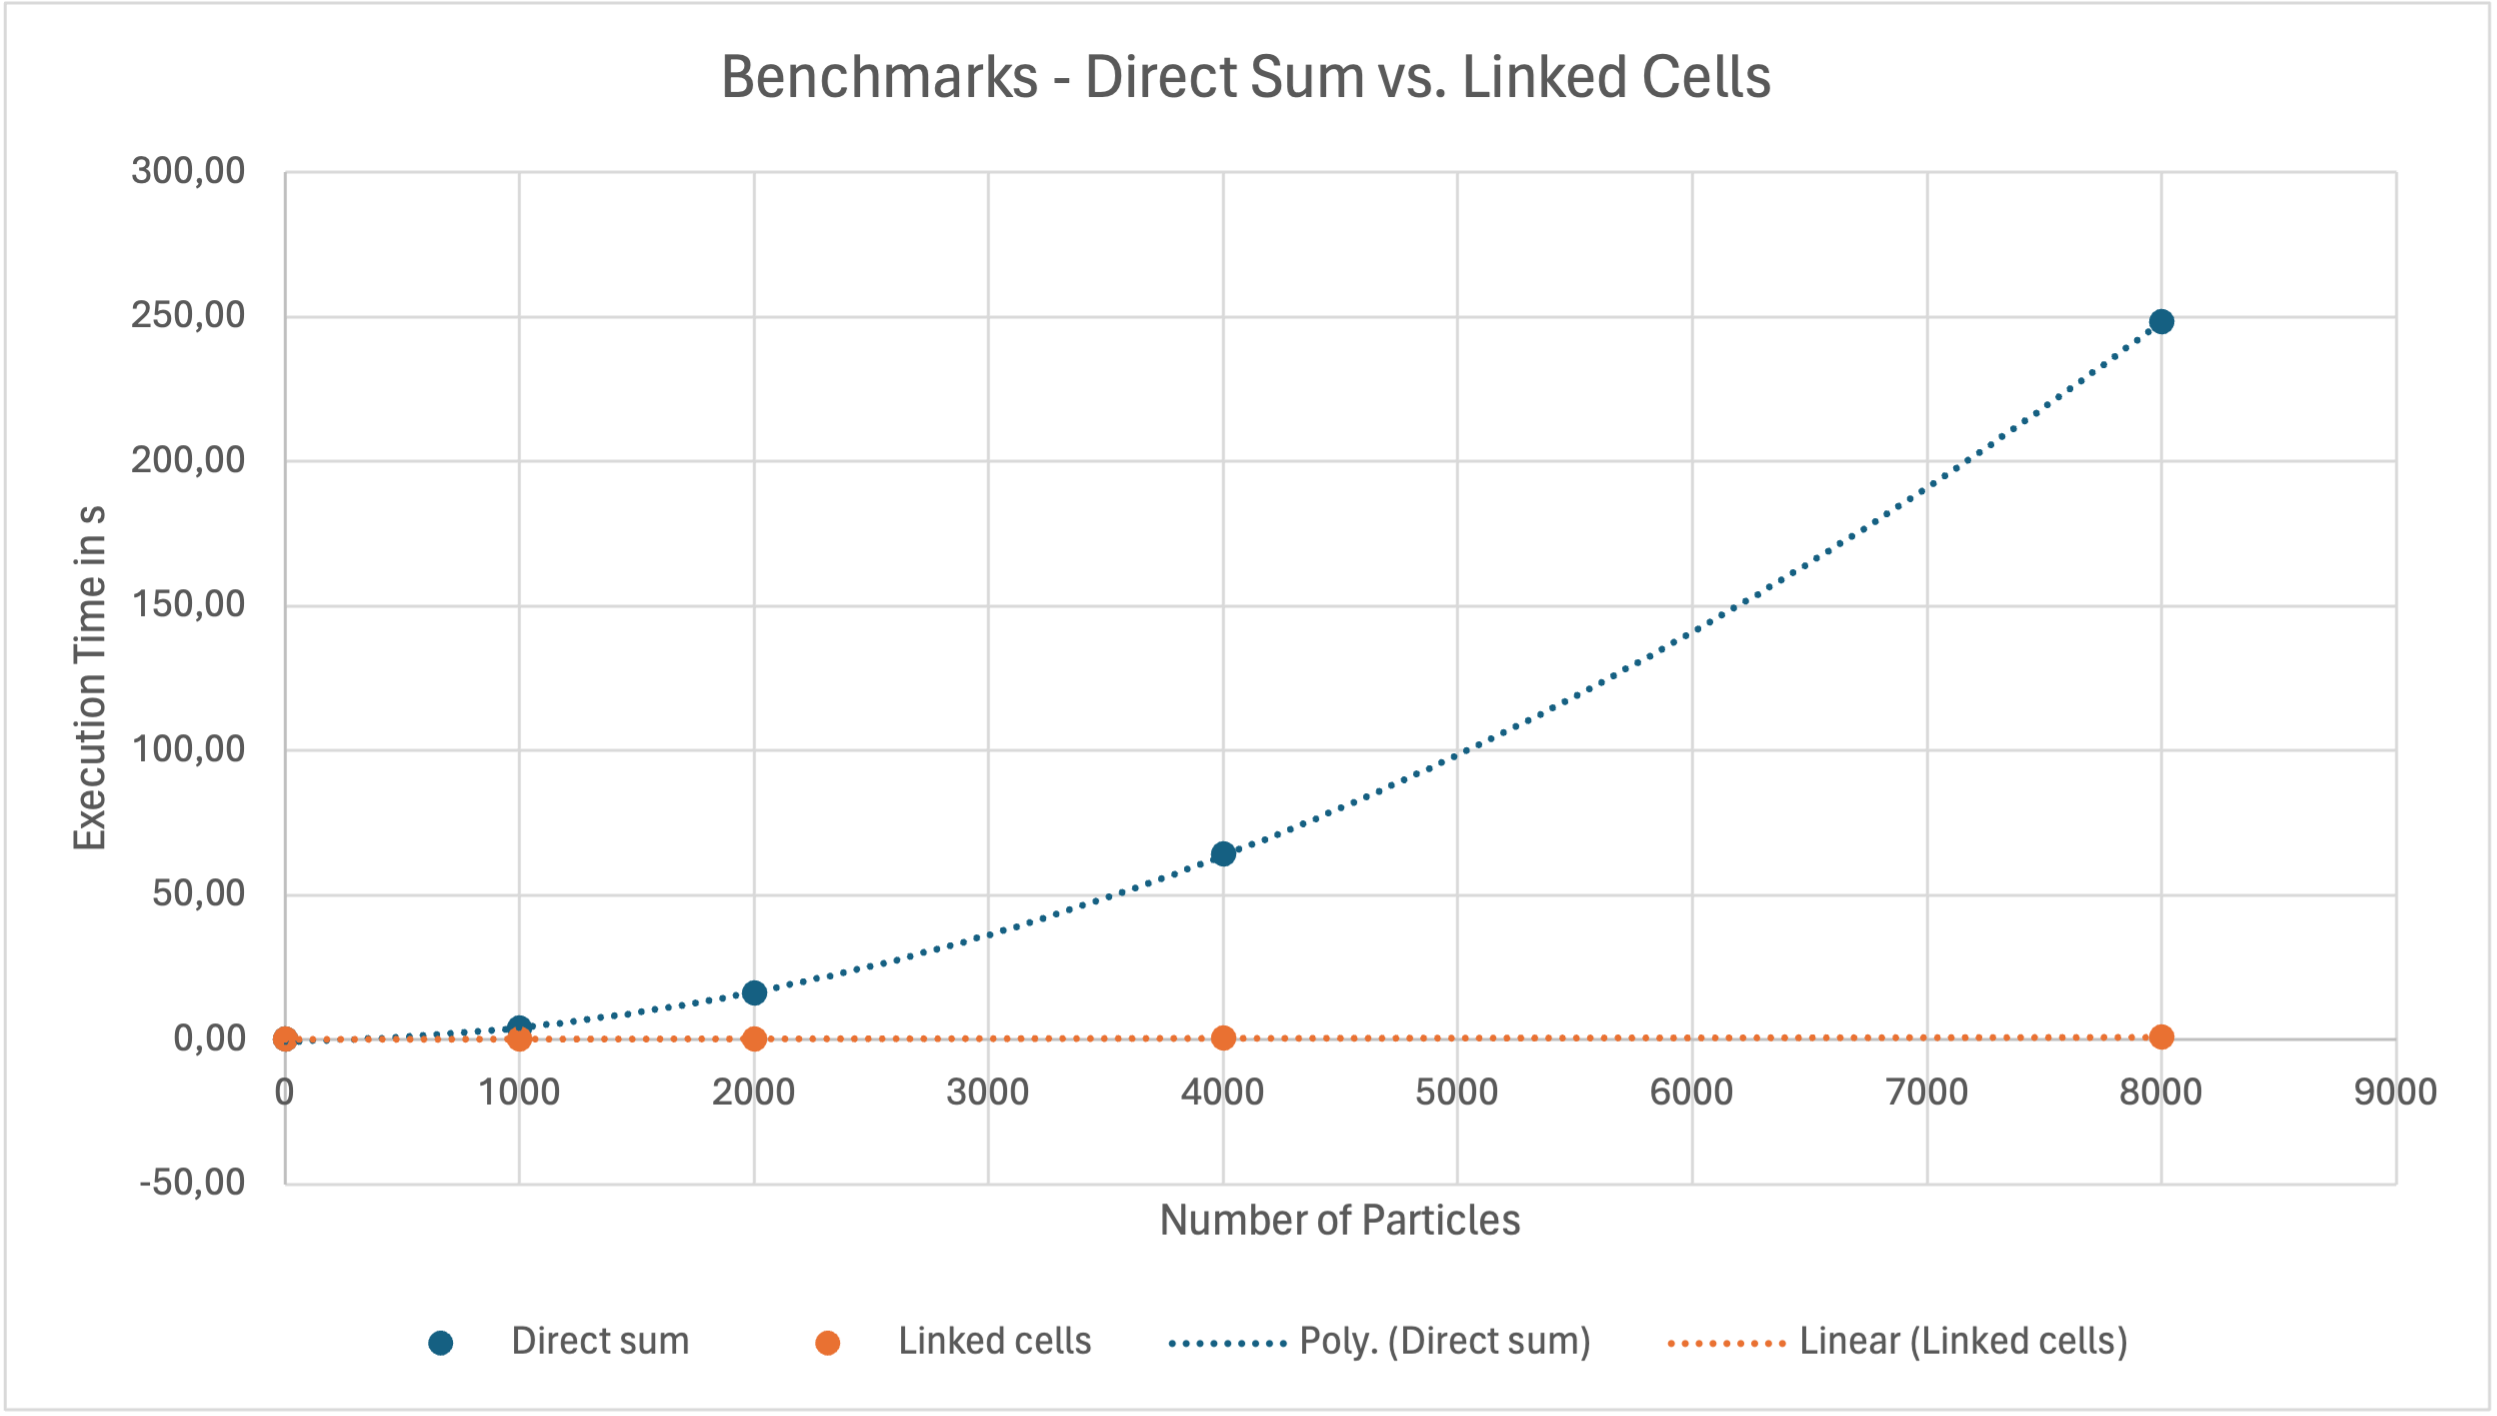
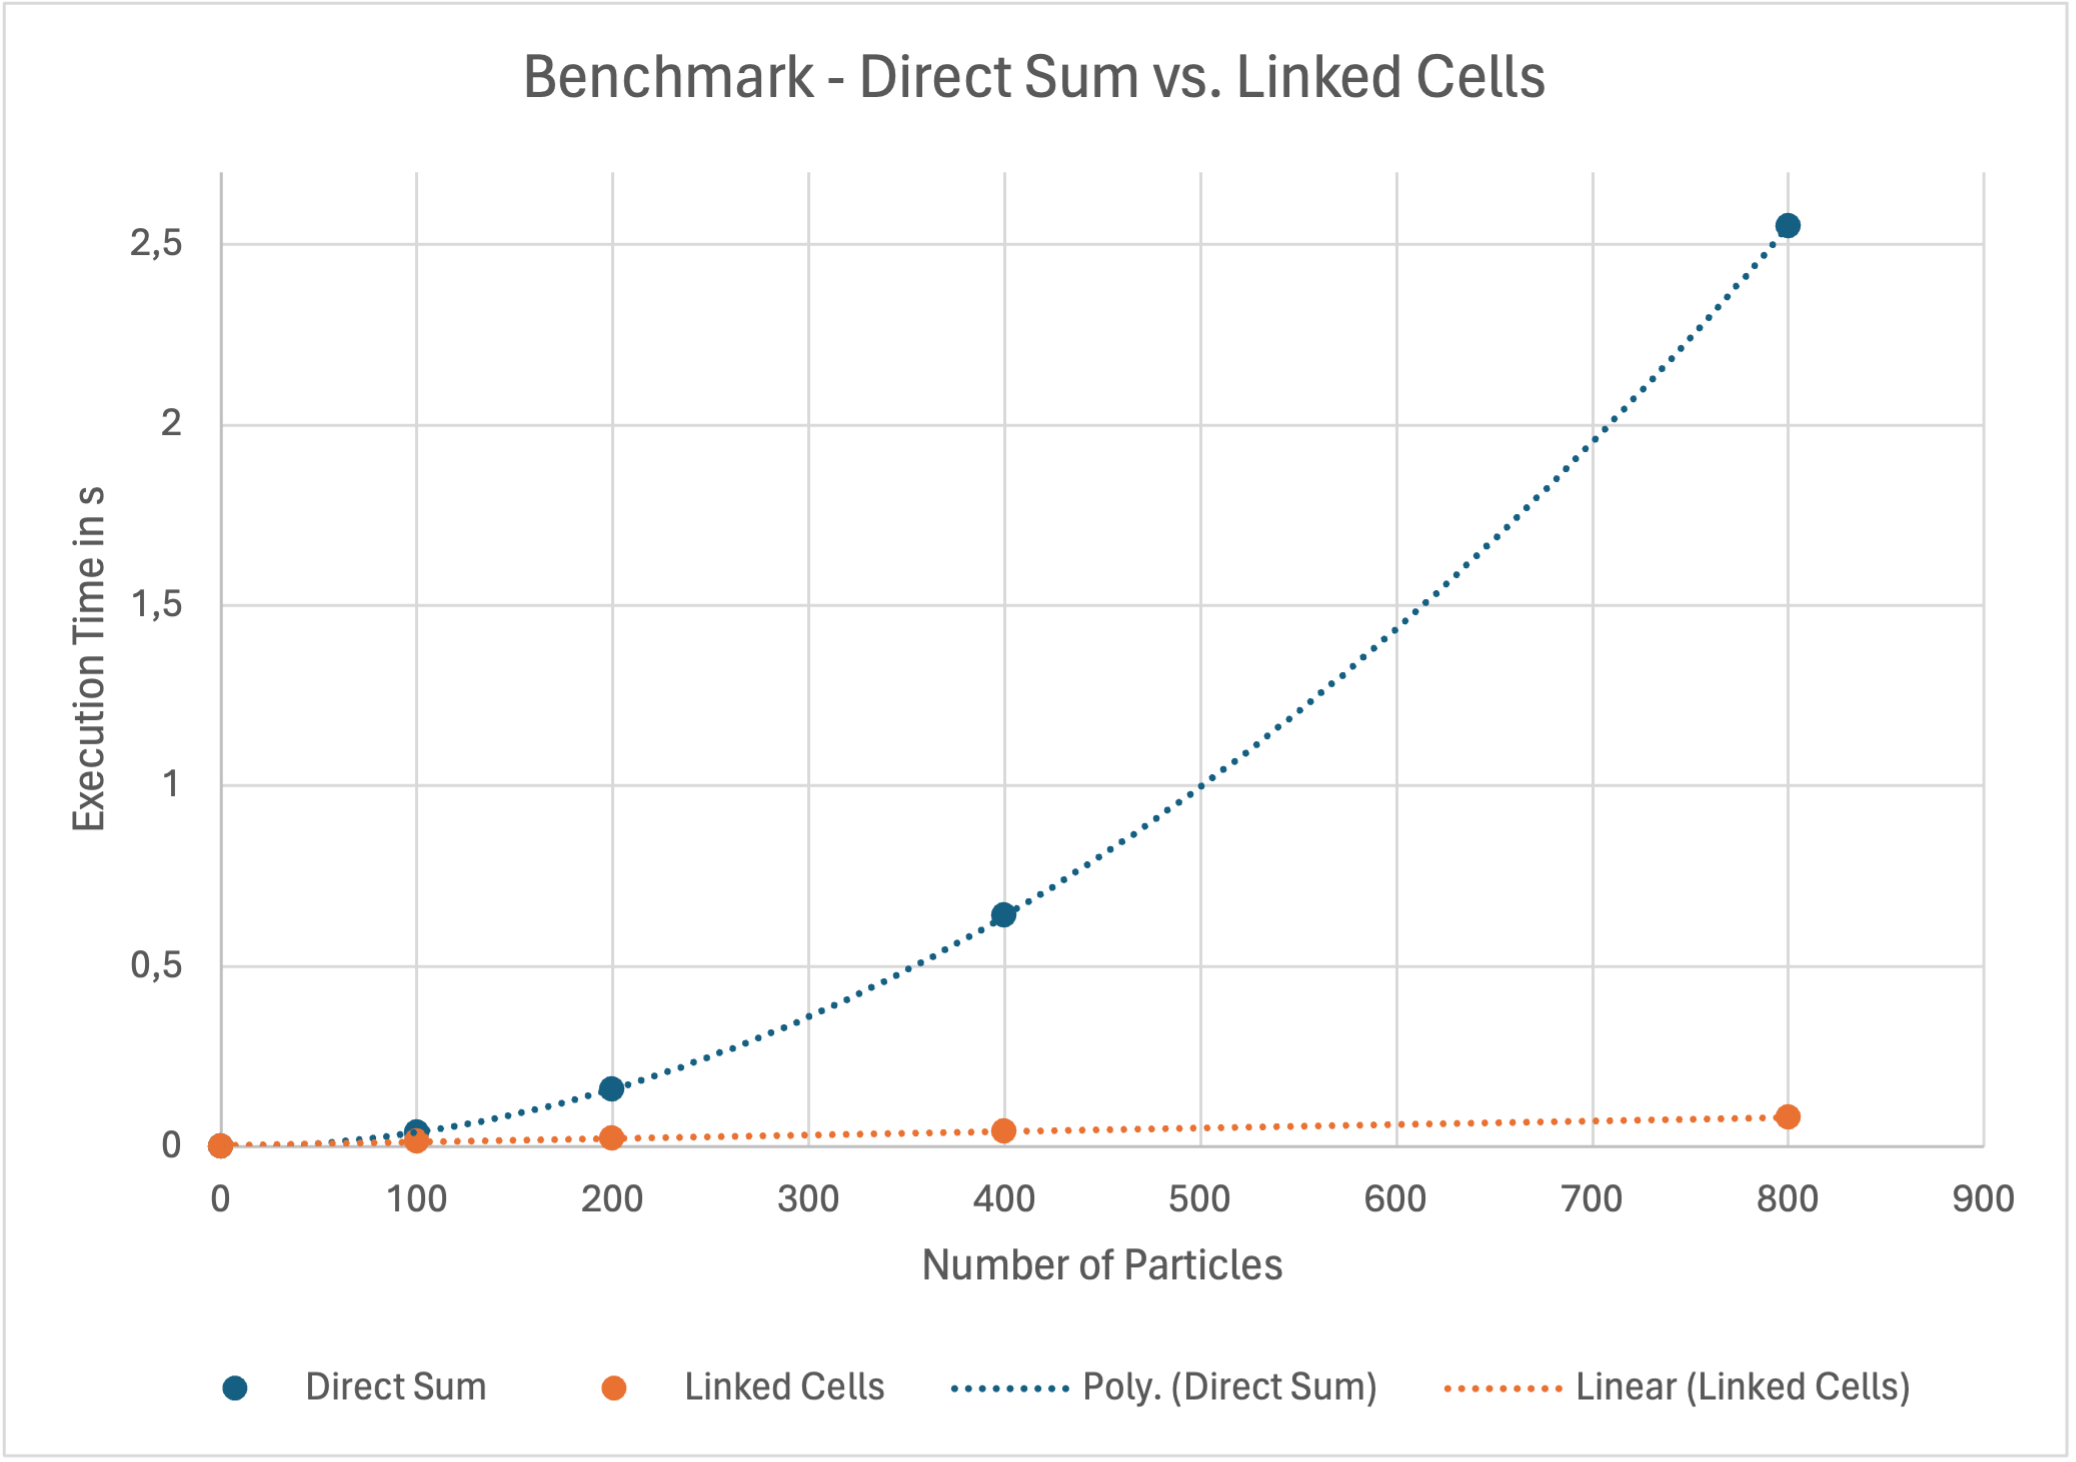
Improved time measurement in the report. Fixed a small bug.

diff --git a/tests/particleRepresentationTest/container/LinkedCellsContainerTest.cpp b/tests/particleRepresentationTest/container/LinkedCellsContainerTest.cpp
@@ -335,8 +335,8 @@ TEST(LinkedCellsContainerTest,Iterators_ApplyToEachParticleInDomain) {
  *      2.) We use the type of each particle for storing the number of pairs, each particle is part of.
  *
  *      3.) We compare the results with those computed by hand:
- *          Example: The cell in the middle of the cuboid has 26 adjacent cells being its neighbours. Therefore each particle in this cell should
- *                   be part of 52 + 1 unique pairs, because in each cell are 2 particles and in there in one additional particle in its own cell.
+ *          Example: The cell in the middle of the cuboid has 26 adjacent cells being its neighbours. Therefore, each particle in this cell should
+ *                   be part of 52 + 1 unique pairs, because in each cell are 2 particles and there is one additional particle in its own cell.
  *
  */
 

diff --git a/src/utils/enumsStructs.h b/src/utils/enumsStructs.h
@@ -160,7 +160,7 @@ namespace enumsStructs {
      */
     inline TypeOfModel setModel(const std::string &selectedModel) {
         static const std::unordered_map<std::string, TypeOfModel> formatMap = {
-                {"directSum",   TypeOfModel::directSum},
+                {"DirectSum",   TypeOfModel::directSum},
                 {"LinkedCells", TypeOfModel::linkedCells}
         };
 
@@ -177,7 +177,7 @@ namespace enumsStructs {
      */
     inline std::string getModel(TypeOfModel &model) {
         static const std::unordered_map<TypeOfModel, std::string> formatMap = {
-                {TypeOfModel::directSum,   "directSum"},
+                {TypeOfModel::directSum,   "DirectSum"},
                 {TypeOfModel::linkedCells, "LinkedCells"}
         };
         auto it = formatMap.find(model);

diff --git a/submissions/assignment-3/Report.md b/submissions/assignment-3/Report.md
@@ -117,6 +117,8 @@ We opted for Tree-Mapping for the XML file due to its ease of use and comprehens
 additional features such as serialization back to DOM or XML, enabling the writing of modified XML files back to disk. This
 may become useful when creating an XML writer in the next worksheet.
 
+---
+
 ## Task 2: Linked-cell Algorithm ##
 
 **1. Introduction**     
@@ -244,7 +246,7 @@ calculations. We also have recorded another video afterward that demonstrates re
 Click [here](Collision-of-two-Bodies-Reflective-Boundaries.mp4) if you are interested.
 
 **3. Benchmarks**   
-Now, let's compare the new linked-cells algorithm with the old direct sum implementation to be able to tell whether all the work was worth it. To make the comparison fair, we ensured that no particle leaves the simulation domain during the simulation using the linked-cells algorithm or interacting in any other way with the borders. Therefore, we chose the simulation domain in such a way that the rectangle just fits in, to avoid that unnecessary many cells are created. Because we only calculated a few time steps with a small `deltaT` and small initial velocities (Brownian average velocity is set to `0.1`), the particles will barely move. We tested each model with `1000`, `2000`, `4000` and `8000` particles forming a 2D-rectangle (a square is not possible with these values). Because we do not want to wait days to get the results we conducted `100` iterations in each simulation, by choosing `deltaT = 0.001` and `endT = 0.1`. We used 2D Brownian Motion and a mesh width `h` of `1.1225` for creating the rectangles. As cut-off radius in the linked-cells algorithm we chose `r = 3` as in the other simulations.  
+Now, let's compare the new linked-cells algorithm with the old direct sum implementation to be able to tell whether all the work was worth it. To make the comparison fair, we ensured that no particle leaves the simulation domain during the simulation using the linked-cells algorithm or interacting in any other way with the borders. Therefore, we chose the simulation domain in such a way that the rectangle just fits in, to avoid that unnecessary many cells are created. Because we only calculated a few time steps with a small `deltaT` and small initial velocities (Brownian average velocity is set to `0.1`), the particles will barely move. We tested each model with `100`, `200`, `400`, `800`, `1000`, `2000`, `4000`, `8000` particles forming a 2D-rectangle (a square is not possible with these values). Because we do not want to wait days to get the results we conducted `100` iterations in each simulation, by choosing `deltaT = 0.001` and `endT = 0.1`. We used 2D Brownian Motion and a mesh width `h` of `1.1225` for creating the rectangles. As cut-off radius in the linked-cells algorithm we chose `r = 3` as in the other simulations.  
 Like last time we used the following hardware:
 
 * **Operating System**: `Ubuntu 22.04.4 LTS`
@@ -253,6 +255,10 @@ Like last time we used the following hardware:
 
 | Number of particles | Form of the rectangle | Direct Sum | Linked Cells | Speed Up |
 |---------------------|-----------------------|------------|--------------|----------|
+| 100                 | 10x10                 | 0.04 s     | 0.150 s      | 3.75     |
+| 200                 | 20x10                 | 0.16 s     | 0.024 s      | 6.67     |
+| 400                 | 20x20                 | 0.64 s     | 0.043 s      | 14.88    |
+| 800                 | 40x20                 | 2.55 s     | 0.080 s      | 31.88    |
 | 1000                | 50x20                 | 3.89 s     | 0.10 s       | 38.90    |
 | 2000                | 50x40                 | 15.90 s    | 0.21 s       | 75.72    |
 | 4000                | 80x50                 | 64.29 s    | 0.41 s       | 156.80   |
@@ -260,15 +266,24 @@ Like last time we used the following hardware:
 
 ![Benchmarks chart](Benchmarks.png)<br><br>
 
-It immediately catches the eye that the linked-cells implementation is much faster than the direct sum implementation.
-It is so fast that in the plot, its running time almost seems to be constant zero. The runtime class of the respective
-algorithm is directly reflected in the results. While the runtime of the linked-cells algorithm only doubles
+To get a plot with reasonable scales, we only visualized our results up to `800`.
+After this point, the difference
+between both implementations is so significant that visualizing it does not make any sense.
+Therefore, we created the table above.
+It immediately catches the eye that the linked-cells implementation is much faster than the direct sum implementation. 
+The runtime class of the respective
+algorithm is directly reflected in the results.
+While the runtime of the linked-cells algorithm only doubles
 approximately when the number of particles is doubled, linear increase: `O(n)`, the runtime of the direct sum
-implementation quadruples approximately, which indicates a quadratic runtime complexity of `0(n²)`. To emphasize the
+implementation quadruples approximately, which indicates a quadratic runtime complexity of `0(n²)`.
+To emphasize the
 complexity of each algorithm, we have embedded a linear and a polynomial regression of second order respectively in the
 graph.   
-As required, we embedded the plot into our doxygen documentation. It can be found in the detailed description of the
-class `LinkedCells`.
+As required, we embedded the plot into our doxygen documentation.
+It can be found in the detailed description of the
+class `LinkedCells`. Click [here](https://ashisatwork.github.io/MolSim/class_linked_cells.html#details) to have a look.
+
+---
 
 ## Task 3: Boundary Conditions ##
 
@@ -290,10 +305,14 @@ The realisation of the boundary condition `reflective` was more involved. We fol
 This approach is only stable for small time steps `delta_T`, because for large time steps the particle might cross the border before the force was high enough to repel it.   
 [Here](Mixed-Boundary-Conditions.mp4) you can see a video with mixed boundary conditions. The boundary at the front is reflective, all other boundaries are set to outflow. 
 
+---
+
 ## Task 4: Simulation of a Falling Drop - Wall ##
 As part of this task, we added a new method to our class [ParticleGenerator](../../src/particleRepresentation/particle) that generates two-dimensional discs of particles. We also made it possible to specify discs within the XML file. Having these features implemented we conducted a first experiment to test our simulation and let a disc fly against a reflective boundary. Because it is not exactly specified if the simulation should be in 2D or 3D we did both. For the 3D simulation, we shifted the center of the disc to (60,25,0.5) to position it vertically centered in the simulation domain. In the 2D case, we set the simulation domain to {120,50,0}, because the third dimension is not needed. 
 * Simulation in 2D: [watch](Disc-against-reflective-Boundary-2D.mp4)
 * Simulation in 3D: [watch](Disc-against-reflective-Boundary-3D.mp4)
+
+---
 
 ## Misc ##
 * We implemented the feedback from Manish by renaming some of our tests and making some other minor changes.

diff --git a/README.md b/README.md
@@ -140,7 +140,7 @@ The process of building the project is described here:
        ```
      - Task 3.4
        ```bash
-       ./MolSim -f ../input/assignment-3/disc-against-wall-xml -i xml -o vtk 
+       ./MolSim -f ../input/assignment-3/disc-against-wall.xml -i xml -o vtk 
        ```
 
 5. Running all Tests
